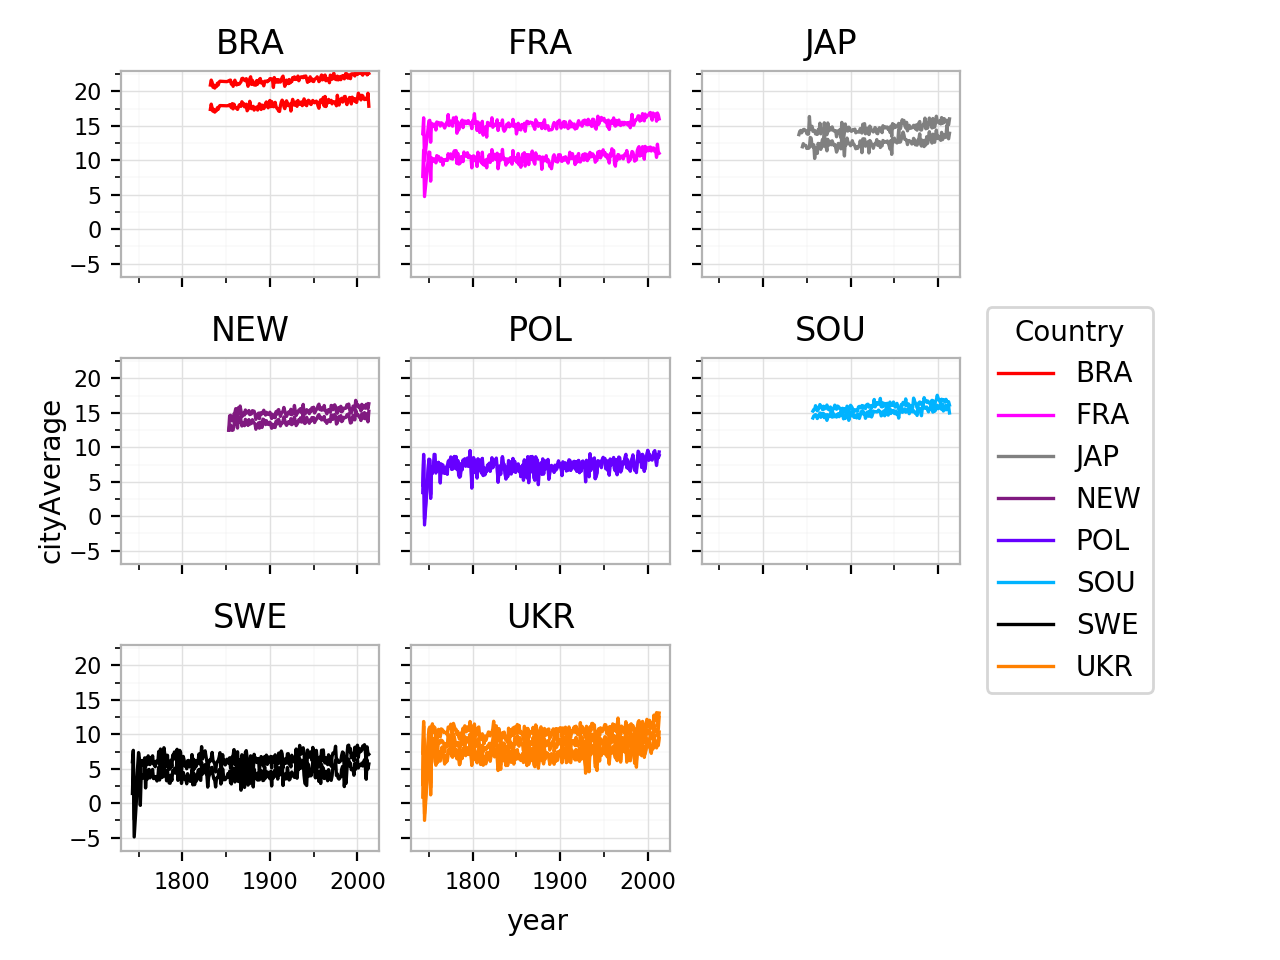
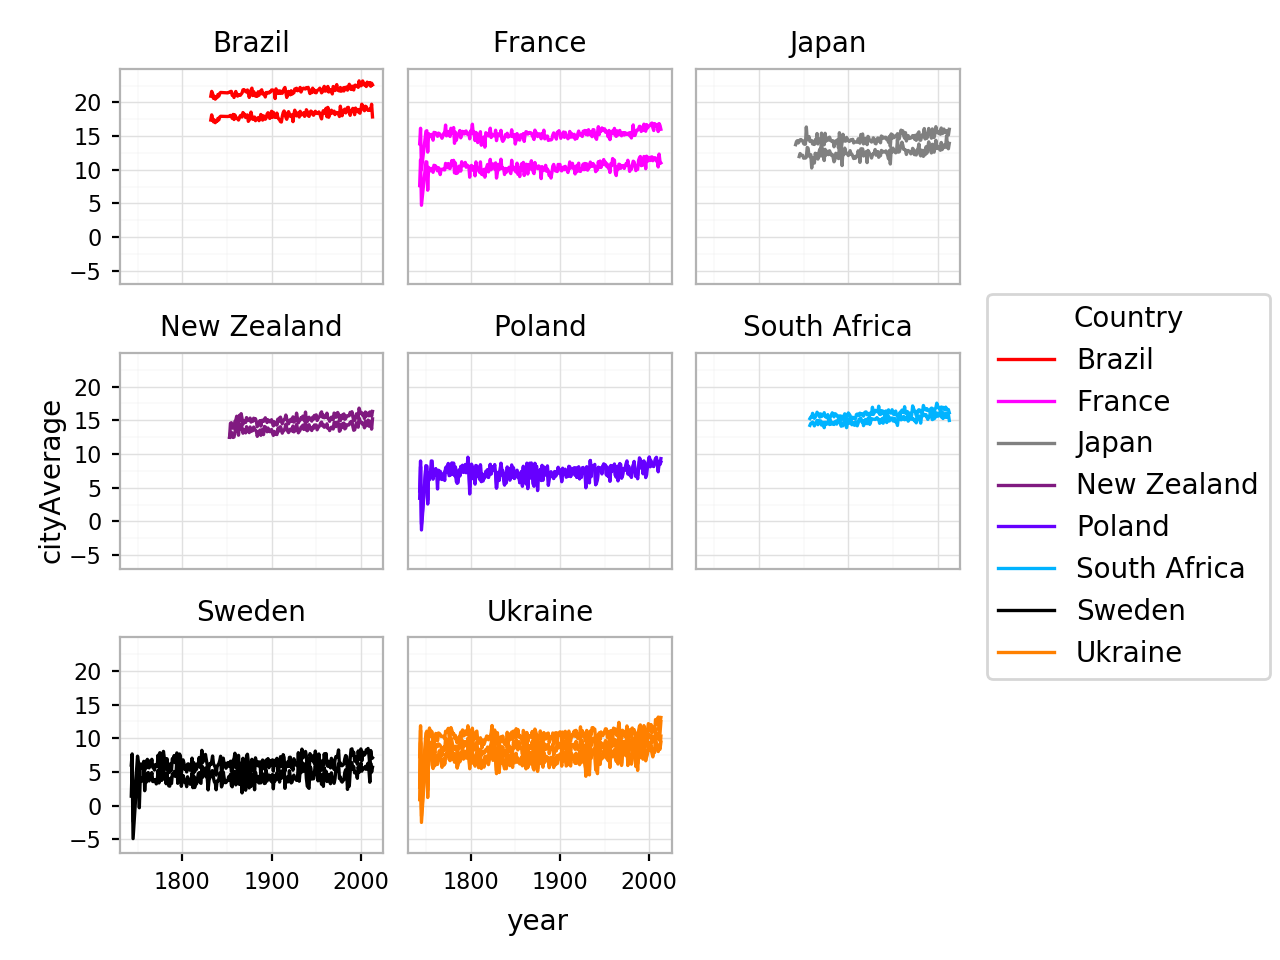
5c done

diff --git a/plot_5c.py b/plot_5c.py
@@ -4,7 +4,7 @@ import numpy as np
 
 data = import_cities()
 
-country_codes = ['BRA', 'FRA', 'JAP', 'NEW', 'POL', 'SOU', 'SWE', 'UKR']
+country_codes = ['Brazil', 'France', 'Japan', 'New Zealand', 'Poland', 'South Africa', 'Sweden', 'Ukraine']
 city_codes = [['Brasília','Canoas'],['Paris','Marseille'],['Tokyo','Tottori'],
               ['Auckland','Hamilton'],['Warsaw','Wroclaw'],['Cape Town','Johannesburg'],
               ['Stockholm','Uppsala'],['Kiev','Lvov','Odesa','Kherson']]
@@ -52,9 +52,9 @@ plot83 = ax[2,1].plot(years[7][2], averages[7][2], linewidth=1.2, label=city_cod
 plot84 = ax[2,1].plot(years[7][3], averages[7][3], linewidth=1.2, label=city_codes[7][3], color=colors[7])
 
 def background(ax, label, xticks=0, yticks=0):
-    ax.set_title(label)
+    ax.set_title(label, size=10)
 
-    ax.set_ylim(-7, 23)
+    ax.set_ylim(-7, 25)
     ax.set_xlim(1730, 2025)
     ax.spines['top'].set_visible(True)
     ax.spines['bottom'].set_visible(True)
@@ -67,31 +67,31 @@ def background(ax, label, xticks=0, yticks=0):
 
     major_x_ticks = np.arange(1800, 2025, 100)
     minor_x_ticks = np.arange(1750, 2025, 50)
-    major_y_ticks = np.arange(-5, 23, 5)
-    minor_y_ticks = np.arange(-5, 23, 2.5)
+    major_y_ticks = np.arange(-5, 25, 5)
+    minor_y_ticks = np.arange(-5, 25, 2.5)
 
     ax.set_xticks(major_x_ticks)
     ax.set_xticks(minor_x_ticks, minor=True)
     ax.set_yticks(major_y_ticks)
     ax.set_yticks(minor_y_ticks, minor=True)
 
-    ax.tick_params(axis='x', which='major', colors='grey', labelsize=8.0, length=3.0)
-    ax.tick_params(axis='x', which='minor', colors='grey', labelsize=8.0, length=0)
-    ax.tick_params(axis='y', which='major', colors='grey', labelsize=8.0, length=3.0)
-    ax.tick_params(axis='y', which='minor', colors='grey', labelsize=8.0, length=0)
+    ax.tick_params(axis='x', which='major', colors='black', labelsize=8.0, length=3.0)
+    ax.tick_params(axis='x', which='minor', colors='black', labelsize=8.0, length=0)
+    ax.tick_params(axis='y', which='major', colors='black', labelsize=8.0, length=3.0)
+    ax.tick_params(axis='y', which='minor', colors='black', labelsize=8.0, length=0)
 
-    ax.grid(True, zorder=0, color='white', which='minor', linewidth=0.1)
-    ax.grid(True, zorder=0, color='white', which='major', linewidth=0.5)
+    ax.grid(True, zorder=0, color=(0.88,0.88,0.88), which='minor', linewidth=0.1)
+    ax.grid(True, zorder=0, color=(0.88,0.88,0.88), which='major', linewidth=0.5)
 
     if xticks == 0:
         ax.set_xticklabels([])
-        ax.tick_params(axis='x', which='major', colors='grey', labelsize=8.0, length=0)
-        ax.tick_params(axis='x', which='minor', colors='grey', labelsize=8.0, length=0)
+        ax.tick_params(axis='x', which='major', colors='black', labelsize=8.0, length=0)
+        ax.tick_params(axis='x', which='minor', colors='black', labelsize=8.0, length=0)
 
     if yticks == 0:
         ax.set_yticklabels([])
-        ax.tick_params(axis='y', which='major', colors='grey', labelsize=8.0, length=0)
-        ax.tick_params(axis='y', which='minor', colors='grey', labelsize=8.0, length=0)
+        ax.tick_params(axis='y', which='major', colors='black', labelsize=8.0, length=0)
+        ax.tick_params(axis='y', which='minor', colors='black', labelsize=8.0, length=0)
 
 background(ax[0,0], country_codes[0], yticks=1)
 background(ax[0,1], country_codes[1])
@@ -110,12 +110,11 @@ ax[2,2].grid(False)
 ax[2,2].set_xticks([])
 ax[2,2].set_yticks([])
 
-
 plt.tight_layout()
 plt.subplots_adjust(right=0.75)
 
 plots = plot11+plot21+plot31+plot41+plot51+plot61+plot71+plot81
 labels = country_codes
-plt.legend(plots, labels, loc='center left', bbox_to_anchor=(1.05, 1.7), title='Country')
+plt.legend(plots, labels, loc='center left', bbox_to_anchor=(1.05, 1.7), title='Country', prop={'size': 10})
 
 save_plot('5c')

diff --git a/plot_5b.py b/plot_5b.py
@@ -107,12 +107,11 @@ ax[2,2].grid(False)
 ax[2,2].set_xticks([])
 ax[2,2].set_yticks([])
 
-
 plt.tight_layout()
 plt.subplots_adjust(right=0.75)
 
 plots = plot11+plot21+plot31+plot41+plot51+plot61+plot71+plot81
 labels = country_codes
-plt.legend(plots, labels, loc='center left', bbox_to_anchor=(1.05, 1.7), title='Country')
+plt.legend(plots, labels, loc='center left', bbox_to_anchor=(1.05, 1.7), title='Country', prop={'size': 10})
 
 save_plot('5b')

diff --git a/plot_5a.py b/plot_5a.py
@@ -94,6 +94,6 @@ plt.subplots_adjust(right=0.75)
 
 plots = plot1+plot2+plot3+plot4+plot5+plot6+plot7+plot8
 labels = [plot.get_label() for plot in plots]
-plt.legend(plots, labels, loc='center left', bbox_to_anchor=(1.05, 1.7), title='Country')
+plt.legend(plots, labels, loc='center left', bbox_to_anchor=(1.05, 1.7), title='Country', prop={'size': 10})
 
 save_plot('5a')
